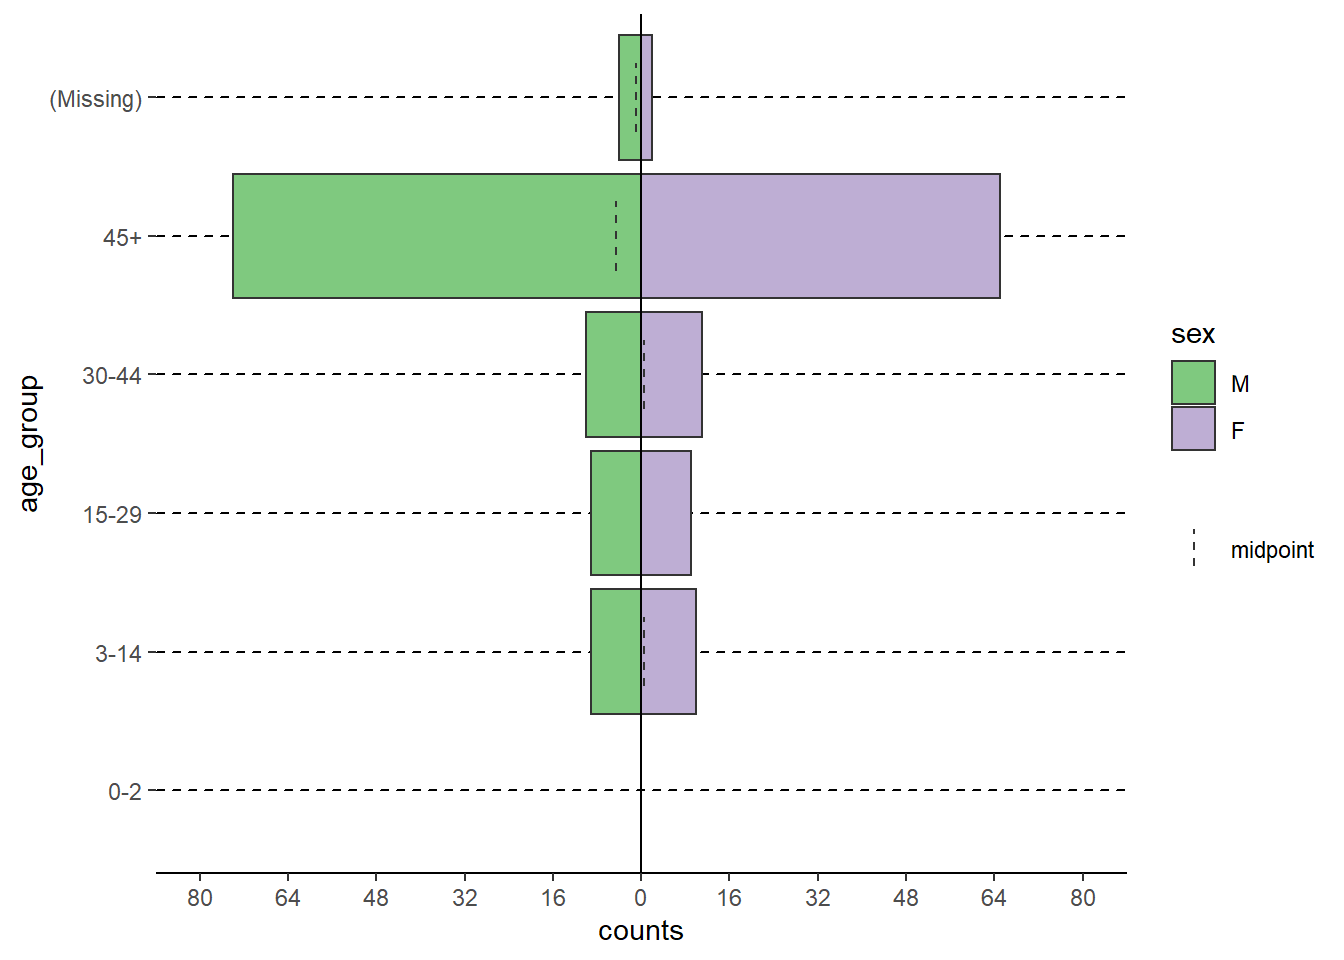
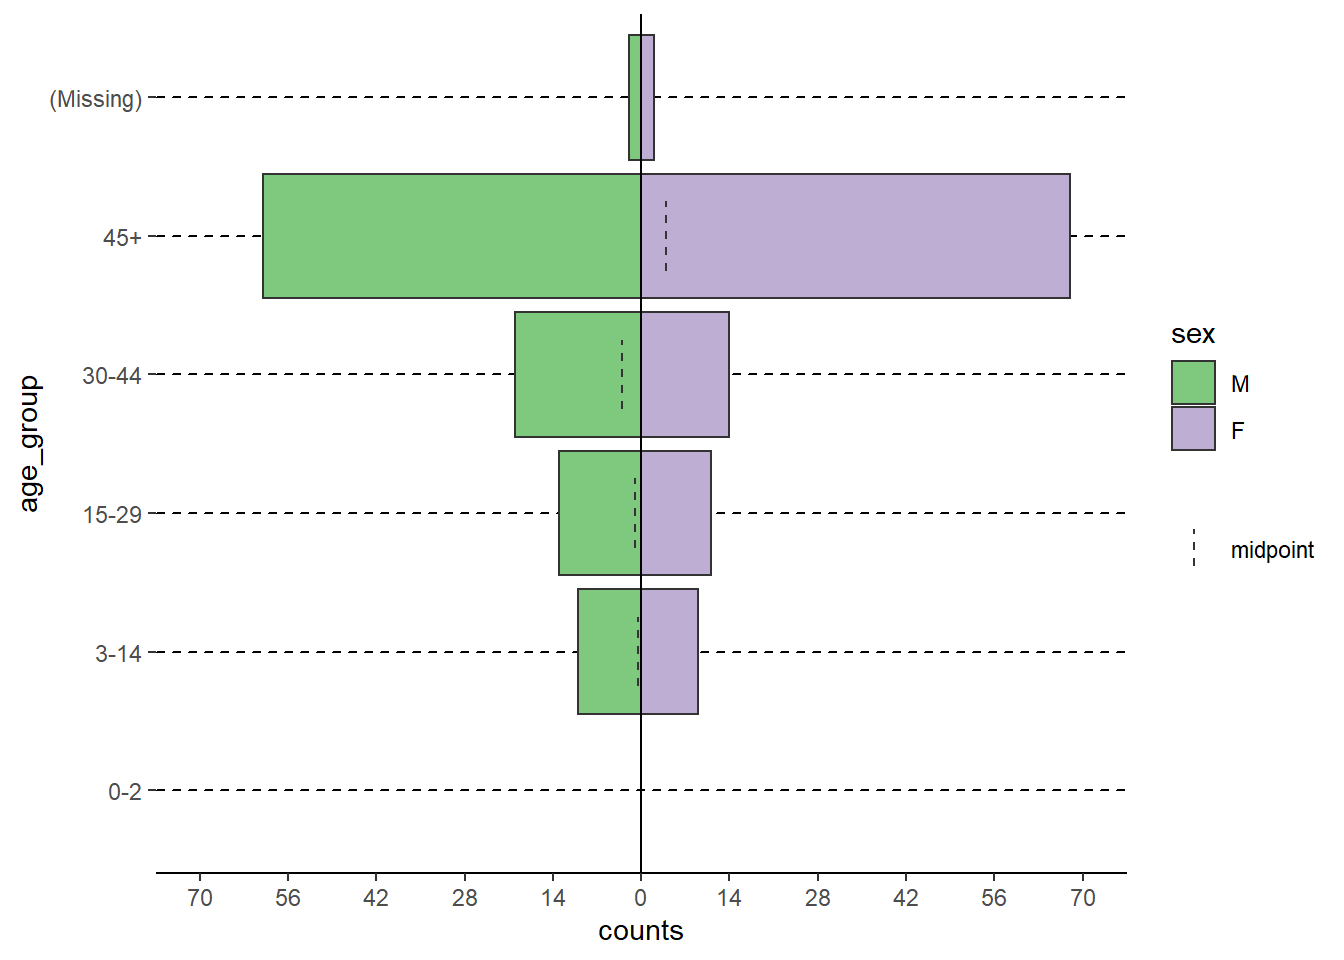
Added bread example PNG to Functions page

diff --git a/content/training/R_Basics/Functions.html b/content/training/R_Basics/Functions.html
@@ -11,15 +11,19 @@ weight: 8
 <div id="simple-functions" class="section level3">
 <h3>Simple Functions</h3>
 <p>Most tasks in R are performed through functions. <strong>A function is like a machine that receives inputs, does some action with those inputs, and produces an output.</strong> What the output is depends on the function.</p>
-<p>On installation, R contains “base” functions that perform common tasks. Specialized functions have been created by R users, verified by the R community, and can be downloaded within “packages” to your RStudio for use. One of the more challenging aspects of R is that there are often many functions to choose from to complete a given task.</p>
 <p><strong>Functions typically operate upon some object placed within the function’s parentheses</strong>. For example, when the function summary() is used on a variable of class numeric, the output is a summary of the variable’s numeric and missing values.</p>
 <pre class="r"><code>summary(linelist_raw$age_years)</code></pre>
 <pre><code>##    Min. 1st Qu.  Median    Mean 3rd Qu.    Max.    NA&#39;s 
-##    3.00   36.00   65.00   63.93   92.50  120.00       9</code></pre>
+##    3.00   33.00   60.00   60.74   92.00  120.00       8</code></pre>
+<p>On installation, R contains “base” functions that perform common tasks. Specialized functions have been created by R users, verified by the R community, and can be downloaded within “packages” to your RStudio for use. One of the more challenging aspects of R is that there are often many functions to choose from to complete a given task.</p>
 </div>
 <div id="functions-with-multiple-arguments" class="section level3">
 <h3>Functions with Multiple Arguments</h3>
 <p>Functions often ask for several inputs. <strong>Each piece of information needed is called an argument</strong>. Some arguments are required for the function to work correctly, some are optional. Arguments can take character, numeric, logical (TRUE/FALSE), and other inputs. Optional arguments have default settings if they are not specified. <strong>Arguments are located within the parentheses of the function, usually separated by commas</strong>.</p>
+<div class="figure">
+<img src="/images/Function_Bread_Example.png" />
+
+</div>
 <blockquote>
 <p><strong>For example</strong>, this plot_age_pyramid() command in the templates produces an age pyramid graphic based on defined age groups and a binary split variable, such as sex. The function is given three arguments within the parentheses,, separated by commas. The values supplied to the arguments establish linelist_cleaned as the data frame to use, age_group as the variable to count, and sex as the binary variable to use for splitting the pyramid</p>
 </blockquote>
